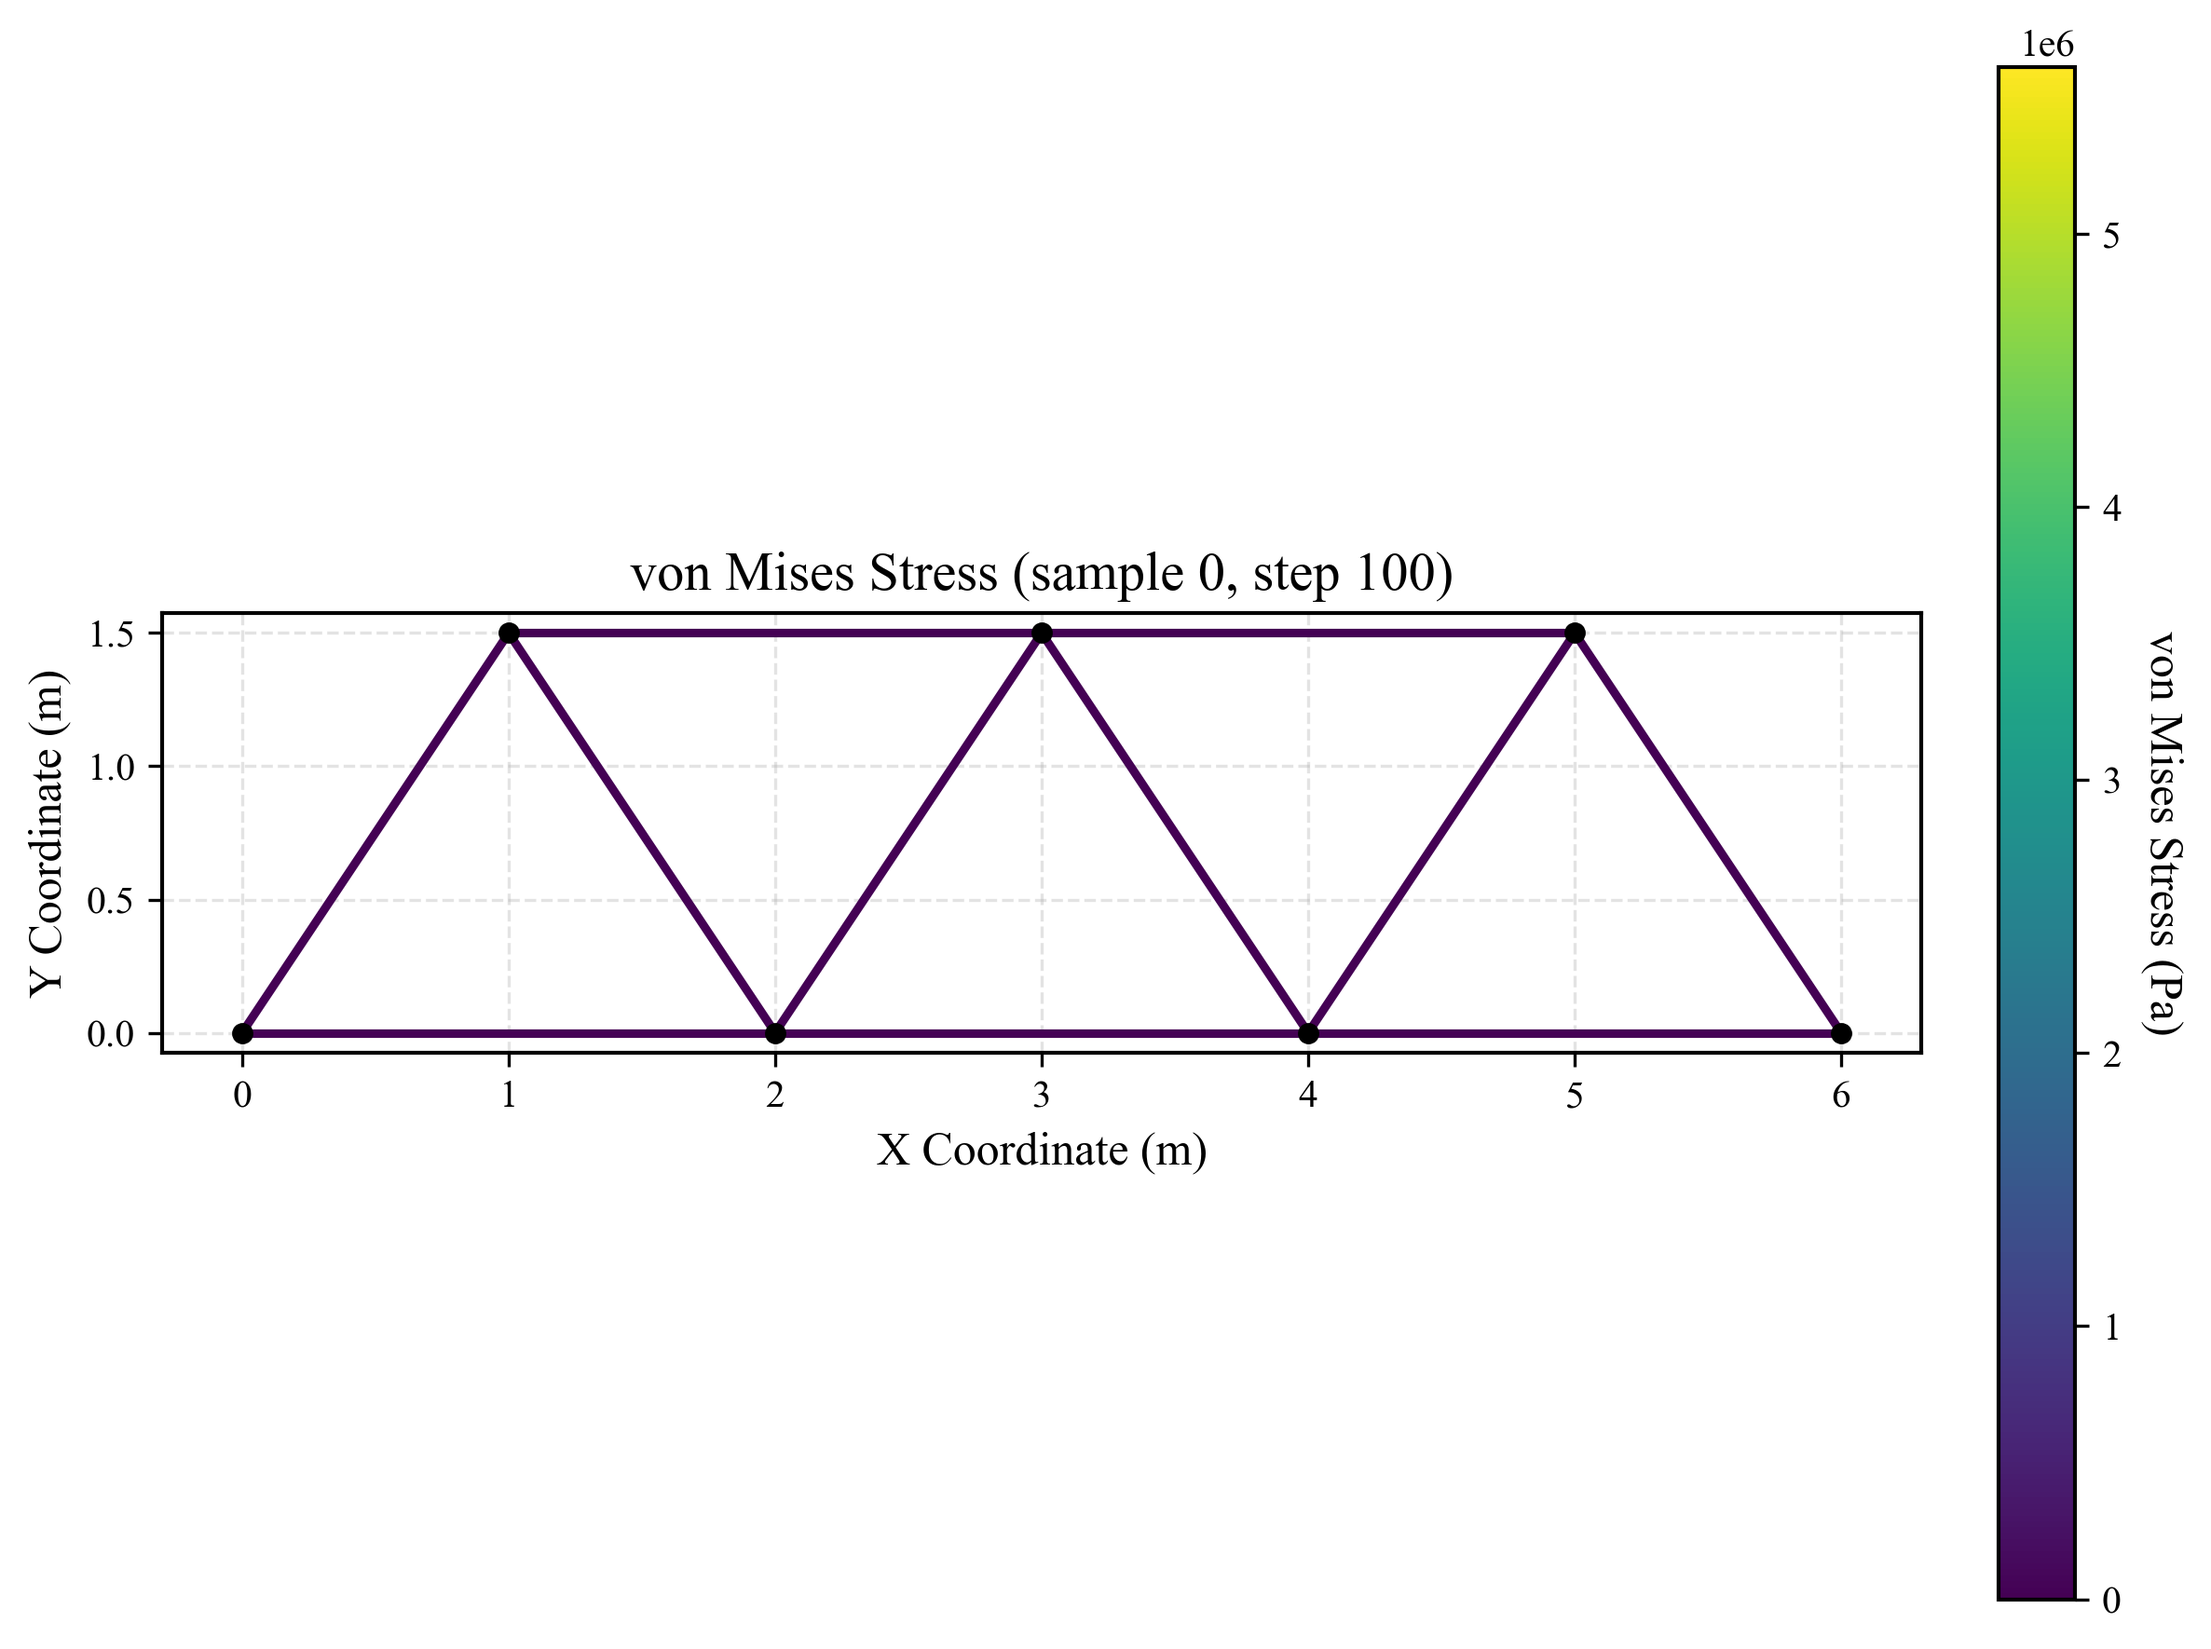
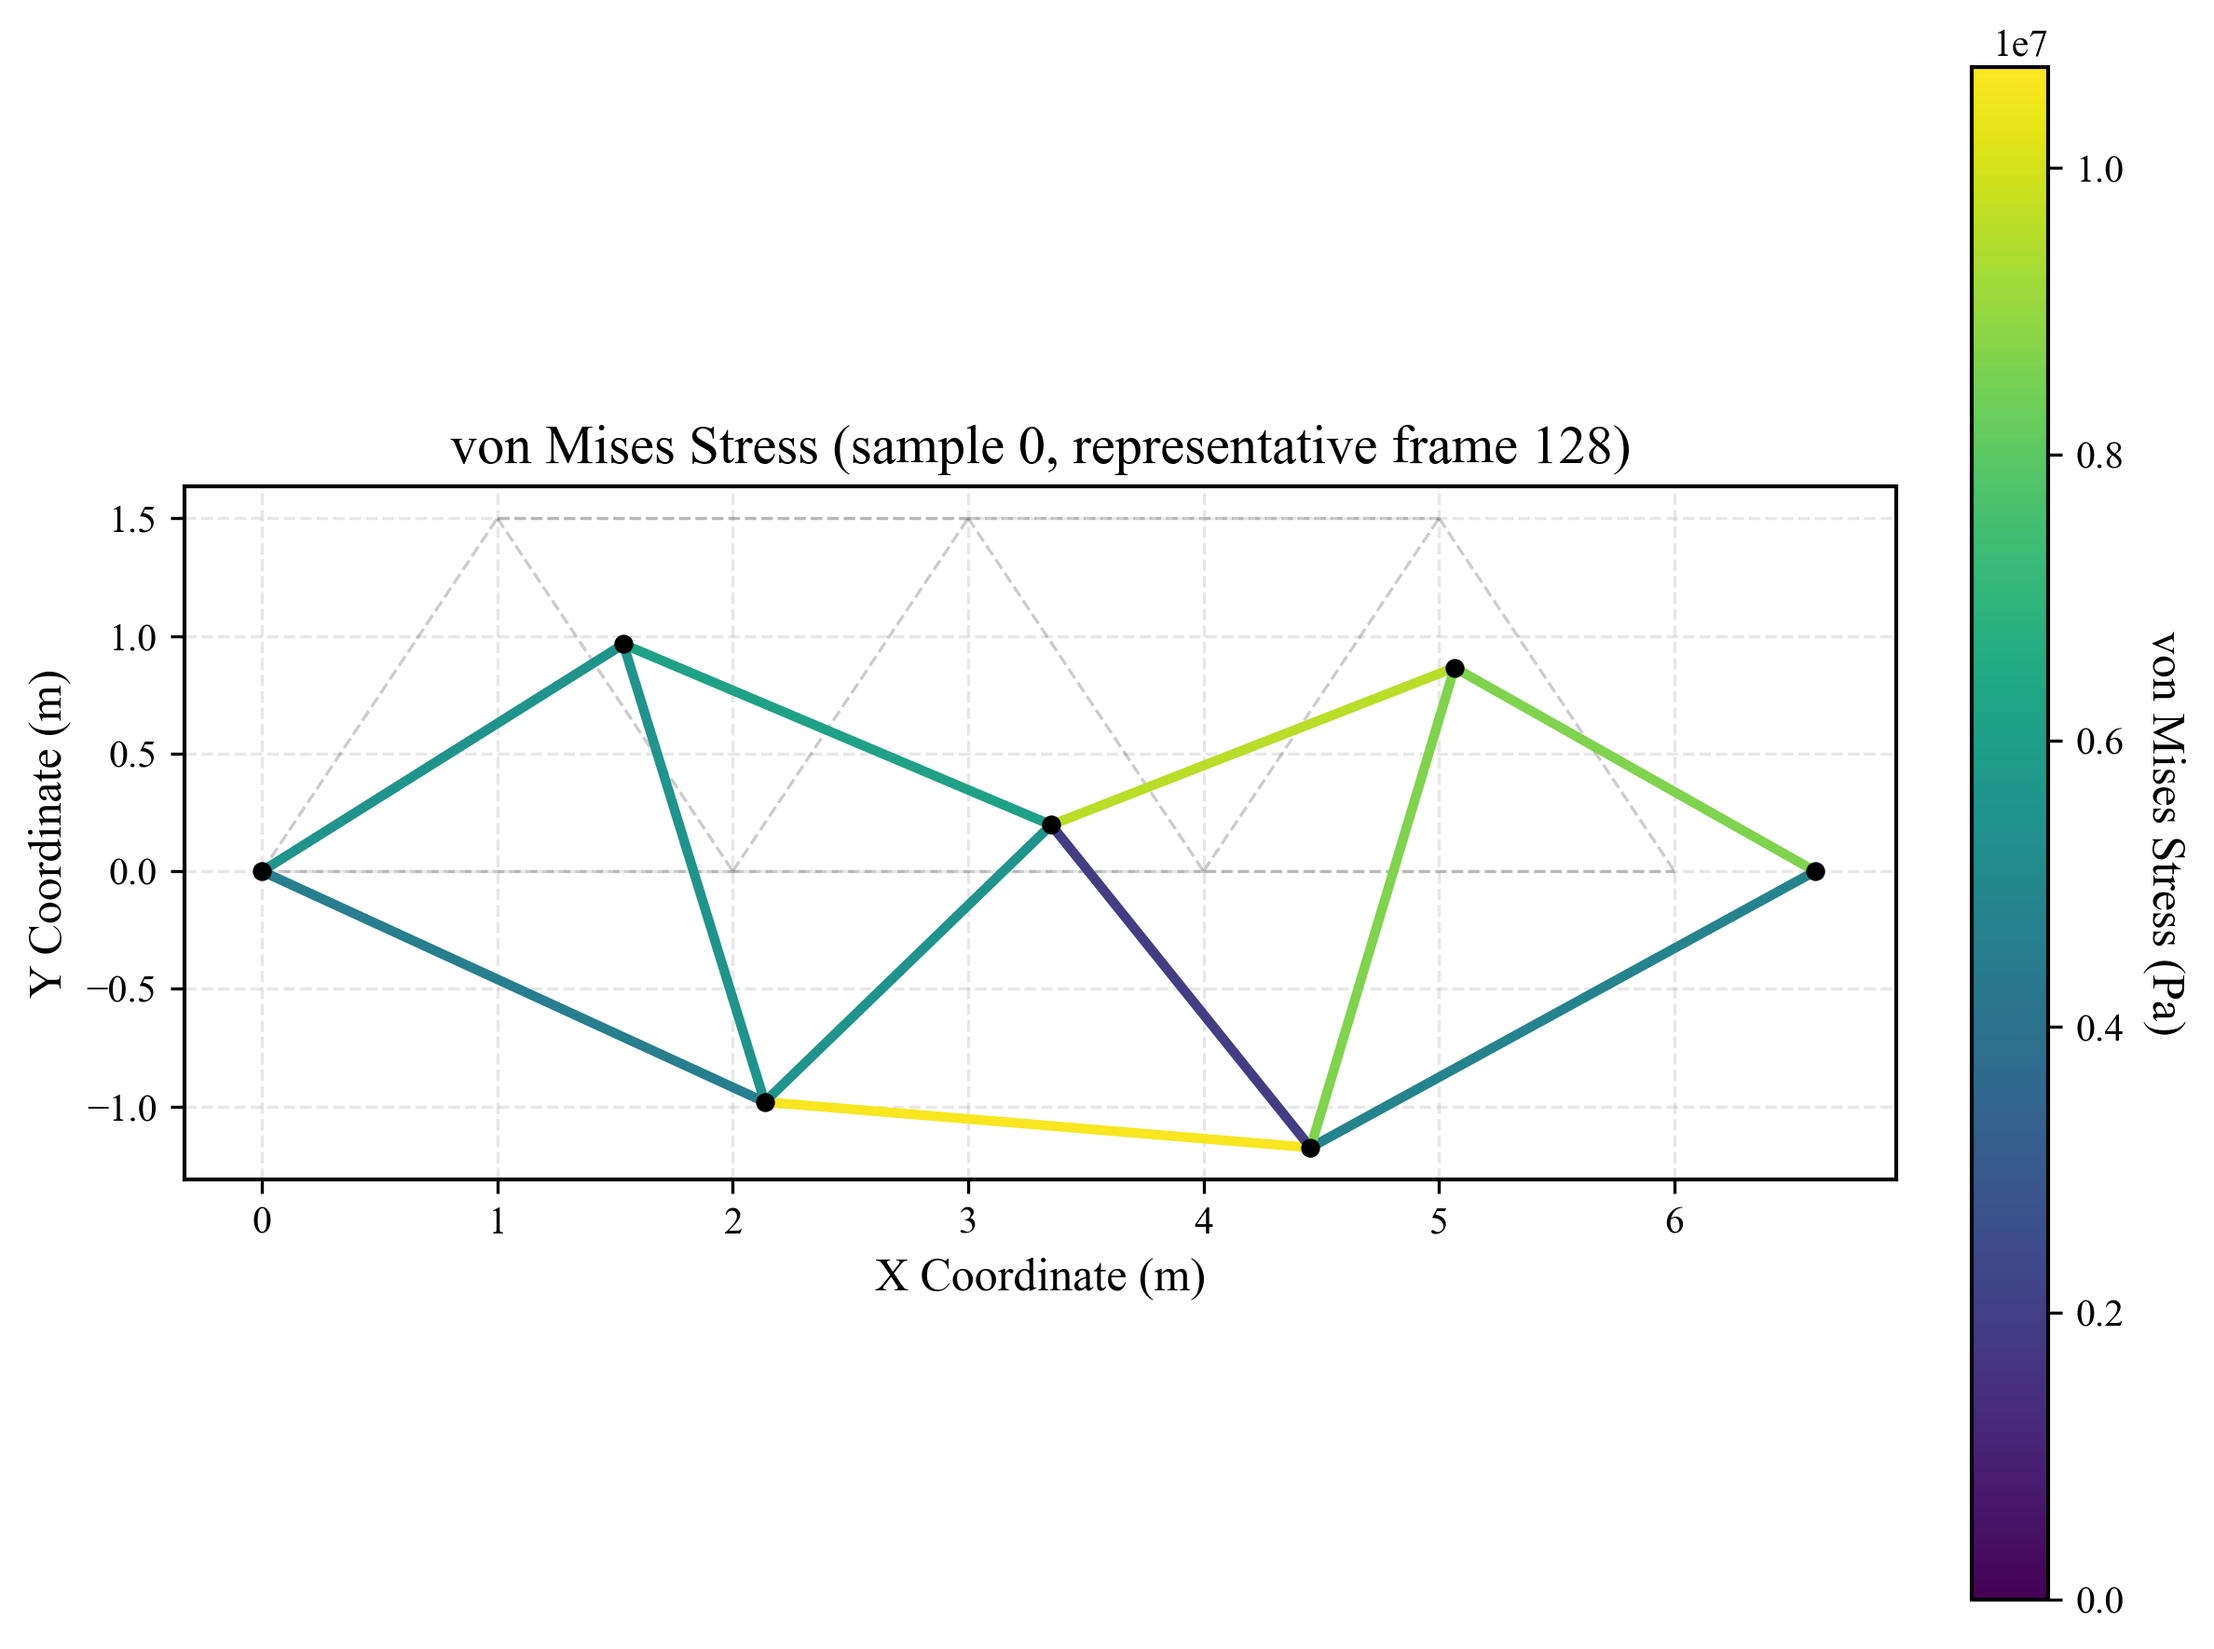
docs: fix dynamic simulation visualization deformation and update description

diff --git a/README.md b/README.md
@@ -96,9 +96,10 @@ python deep_learning/train.py --model pinn --epochs 100
 程序内置了高精度的多物理量可视化接口，支持从动力学仿真到深度学习识别的全链路展示。
 
 ### 6.1 动力学仿真可视化
-**1. von Mises 应力云图 (修正缩放因子)**
-动态展示结构在脉冲载荷下的位移响应。通过优化的坐标变换逻辑，准确呈现毫米级变位在直观视觉上的比例平衡：
+**1. 动力学瞬态应力云图 (位移放大 3,000 倍)**
 ![vm_cloud_frame](docs/images/supervisor/vm_cloud_frame_100.png)
+*   **物理说明**：该图展示了结构在谐波载荷（Harmonic Load）作用下 $t=1.28s$ 时的瞬时响应。载荷时程完整覆盖了仿真全过程（0-2.0s）。
+*   **可视化增强**：为了直观呈现亚毫米级的动力学变位，图中应用了 **3,000 倍** 变形放大。灰色虚线描述了结构的初始外形，彩色云图揭示了由节点载荷激发的整体受力与振型。
 
 ### 6.2 深度学习训练可视化分析
 我们利用 `visualization.py` 对 **Graph Transformer (GT)** 与 **PINN** 模型在 10,000 样本规模下的表现进行了可视化对比：
